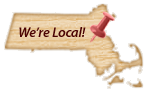
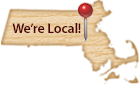
Updated were local image and made it center vertically

diff --git a/css/style.css b/css/style.css
@@ -88,7 +88,7 @@ header {
 	width:147px;
 	height:93px;
 	display:block;
-	margin-top:-10px;
+    line-height: 93px;
 }
 
 .nav-background {
